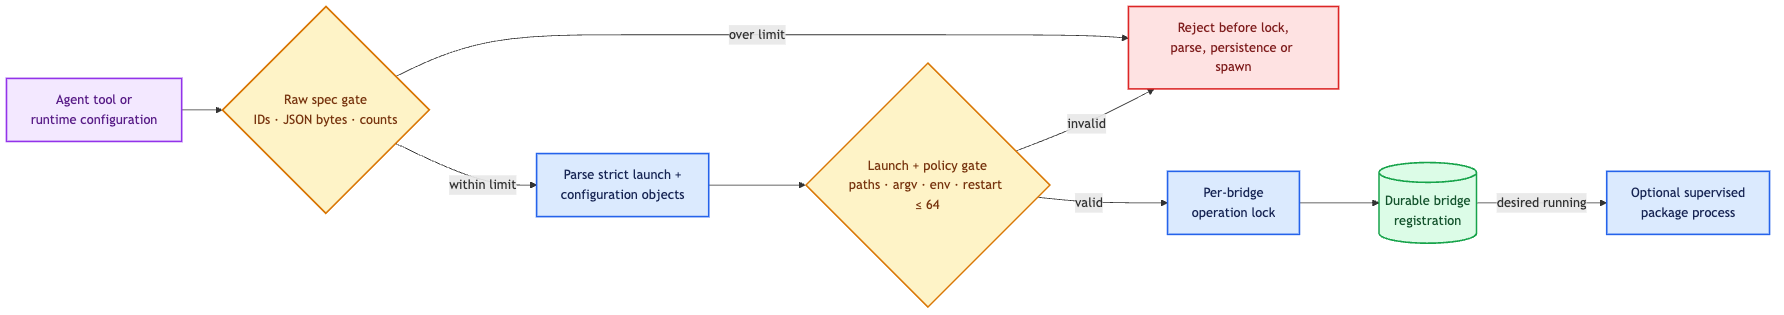
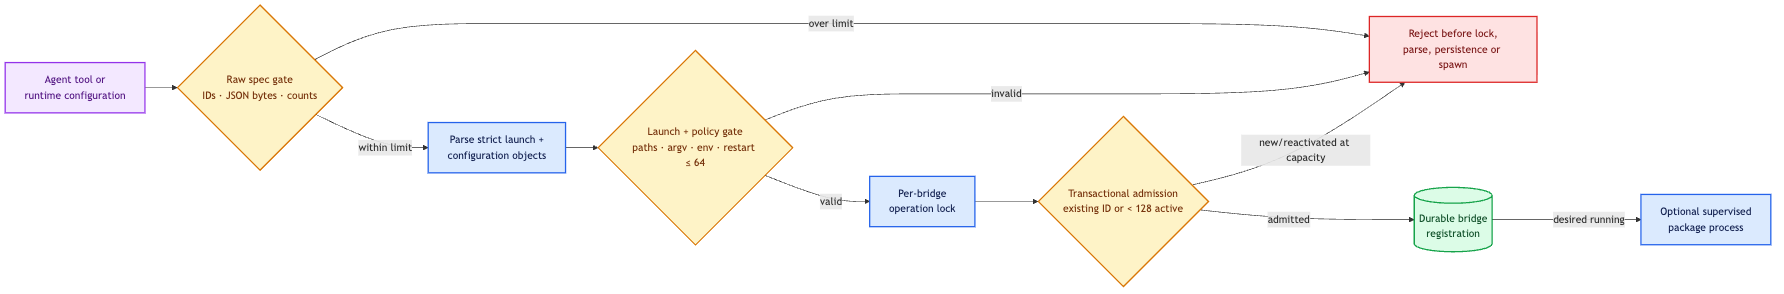
fix(v2): bound live bridge registrations (#382)

diff --git a/v2/bridge-host/implementation/src/store.rs b/v2/bridge-host/implementation/src/store.rs
@@ -8,7 +8,8 @@ use crate::{
     AuthenticationChallenge, AuthenticationMethod, BridgeAlertTarget, BridgeHostError,
     BridgeInbound, BridgeIngressMode, BridgeLifecycle, BridgeManagement, BridgeOutbound,
     BridgeReceipt, BridgeRecord, BridgeSpec, BridgeStatus, CredentialLifecycle, CredentialStatus,
-    DeliveryLifecycle, DeliveryReceipt, HealthObservation, TriggerIntent,
+    DeliveryLifecycle, DeliveryReceipt, HealthObservation, MAX_ACTIVE_BRIDGE_REGISTRATIONS,
+    TriggerIntent,
 };
 
 const SCHEMA_VERSION: i64 = 3;
@@ -114,6 +115,7 @@ impl BridgeStore {
             .map_err(storage_error)?
         {
             if lifecycle == "Unregistered" {
+                require_registration_capacity(&transaction)?;
                 transaction
                     .execute(
                         "UPDATE bridges SET
@@ -211,6 +213,7 @@ impl BridgeStore {
             drop(connection);
             return Ok((self.record(&spec.bridge_id)?, false));
         }
+        require_registration_capacity(&transaction)?;
         transaction
             .execute(
                 "INSERT INTO bridges (
@@ -1965,6 +1968,22 @@ fn bridge_exists(connection: &Connection, bridge_id: &str) -> Result<bool, Bridg
         .map_err(storage_error)
 }
 
+fn require_registration_capacity(connection: &Connection) -> Result<(), BridgeHostError> {
+    let active = connection
+        .query_row(
+            "SELECT COUNT(*) FROM bridges WHERE lifecycle != 'Unregistered'",
+            [],
+            |row| row.get::<_, i64>(0),
+        )
+        .map_err(storage_error)?;
+    let limit = i64::try_from(MAX_ACTIVE_BRIDGE_REGISTRATIONS)
+        .map_err(|_| BridgeHostError::StorageUnavailable)?;
+    if active >= limit {
+        return Err(BridgeHostError::BridgeCapacityExceeded);
+    }
+    Ok(())
+}
+
 fn query_health(
     connection: &Connection,
     bridge_id: &str,
@@ -2327,7 +2346,7 @@ mod tests {
     use crate::{
         AuthenticationMethod, BridgeAlertTarget, BridgeHostError, BridgeIngressMode,
         BridgeLifecycle, BridgeManagement, BridgeSpec, CredentialLifecycle, HealthObservation,
-        PackageChallenge,
+        MAX_ACTIVE_BRIDGE_REGISTRATIONS, PackageChallenge,
     };
 
     fn spec(desired_running: bool) -> BridgeSpec {
@@ -2401,6 +2420,47 @@ mod tests {
             })
             .expect("audit count");
         assert_eq!(audit_count, 3);
+    }
+
+    #[test]
+    fn active_registration_capacity_is_exact_idempotent_and_reusable() {
+        let store = BridgeStore::open_in_memory().expect("store opens");
+        for offset in 0..MAX_ACTIVE_BRIDGE_REGISTRATIONS {
+            let mut bridge = spec(false);
+            bridge.bridge_id = format!("bridge-{offset:03}");
+            bridge.management = BridgeManagement::AgentManaged;
+            store
+                .register(&bridge, offset as u64)
+                .expect("capacity slot admits bridge");
+        }
+
+        let mut existing = spec(false);
+        existing.bridge_id = "bridge-000".into();
+        existing.management = BridgeManagement::AgentManaged;
+        let (record, inserted) = store
+            .register(&existing, 1_000)
+            .expect("idempotent registration remains valid at capacity");
+        assert_eq!(record.generation, 1);
+        assert!(!inserted);
+
+        let mut overflow = spec(false);
+        overflow.bridge_id = "bridge-overflow".into();
+        overflow.management = BridgeManagement::AgentManaged;
+        assert!(matches!(
+            store.register(&overflow, 1_001),
+            Err(BridgeHostError::BridgeCapacityExceeded)
+        ));
+
+        store
+            .unregister("bridge-000", 1, 1_002)
+            .expect("unregister releases capacity");
+        store
+            .register(&overflow, 1_003)
+            .expect("released capacity admits another bridge");
+        assert!(matches!(
+            store.register(&existing, 1_004),
+            Err(BridgeHostError::BridgeCapacityExceeded)
+        ));
     }
 
     #[test]

diff --git a/v2/bridge-host/implementation/src/lib.rs b/v2/bridge-host/implementation/src/lib.rs
@@ -44,6 +44,8 @@ use package::validate_launch_json;
 type Clock = Arc<dyn Fn() -> Result<u64, BridgeHostError> + Send + Sync>;
 
 const MAX_BRIDGE_ID_BYTES: usize = 512;
+/// Maximum durable registrations that have not been explicitly retired.
+pub const MAX_ACTIVE_BRIDGE_REGISTRATIONS: usize = 128;
 const MAX_PACKAGE_ID_BYTES: usize = 512;
 const MAX_DISPLAY_NAME_BYTES: usize = 1024;
 const MAX_LAUNCH_JSON_BYTES: usize = 256 * 1024;

diff --git a/v2/bridge-host/implementation/src/contract.rs b/v2/bridge-host/implementation/src/contract.rs
@@ -274,6 +274,7 @@ boxology::contract! {
         DraftOnly,
         InvalidSpec,
         UnknownBridge,
+        BridgeCapacityExceeded,
         DuplicateBridgeConflict,
         GenerationConflict,
         ManagementConflict,

diff --git a/v2/bridge-host/README.md b/v2/bridge-host/README.md
@@ -49,6 +49,9 @@ host-call response with the same ID.
 Raw bridge specs are byte- and count-bounded before the bridge ID enters the per-bridge lock
 registry. The host then parses strict launch/configuration objects and checks launch paths, argv,
 environment names, authentication methods and restart policy before persistence or process launch.
+Inside the durable registration transaction, at most 128 non-retired registrations may exist.
+An idempotent call for an existing registration still succeeds at capacity; unregistering an
+agent-managed bridge releases its slot before another identity can be admitted.
 
 | Boundary | Maximum |
 |---|---:|
@@ -60,6 +63,7 @@ environment names, authentication methods and restart policy before persistence 
 | Launch arguments | 64 × 4,096 bytes |
 | Environment names | 128 × 255 bytes |
 | Process starts per restart window | 64 |
+| Active durable registrations | 128 |
 
 Registration validates path shape without requiring a stopped package to be running. Actual launch
 also requires the configured working directory to exist.
